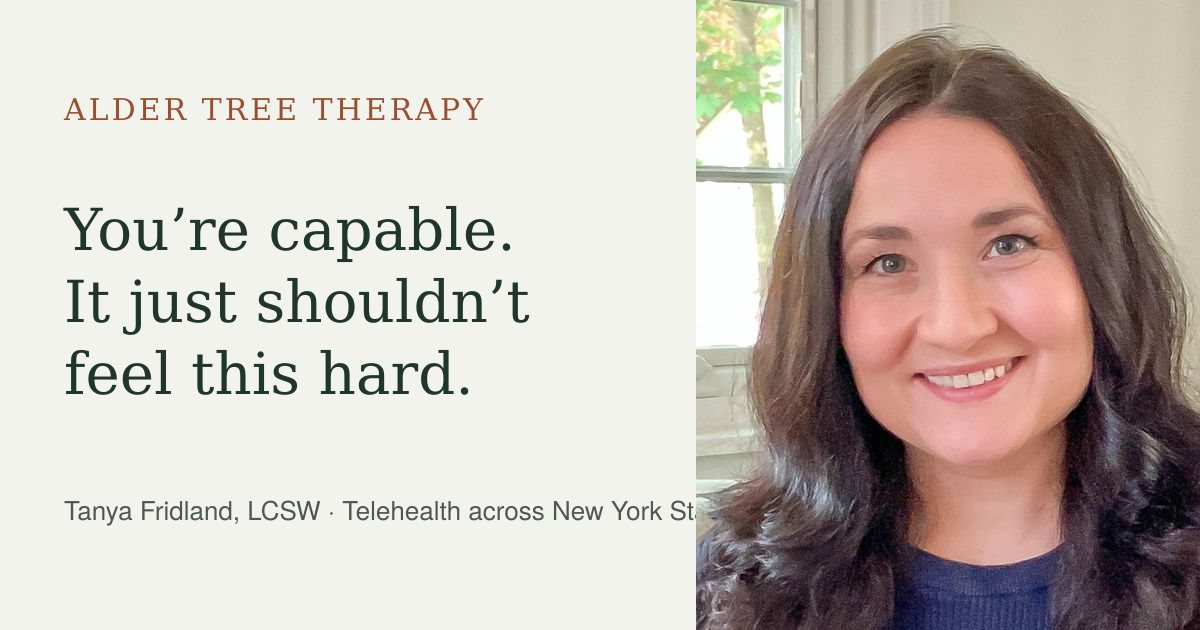
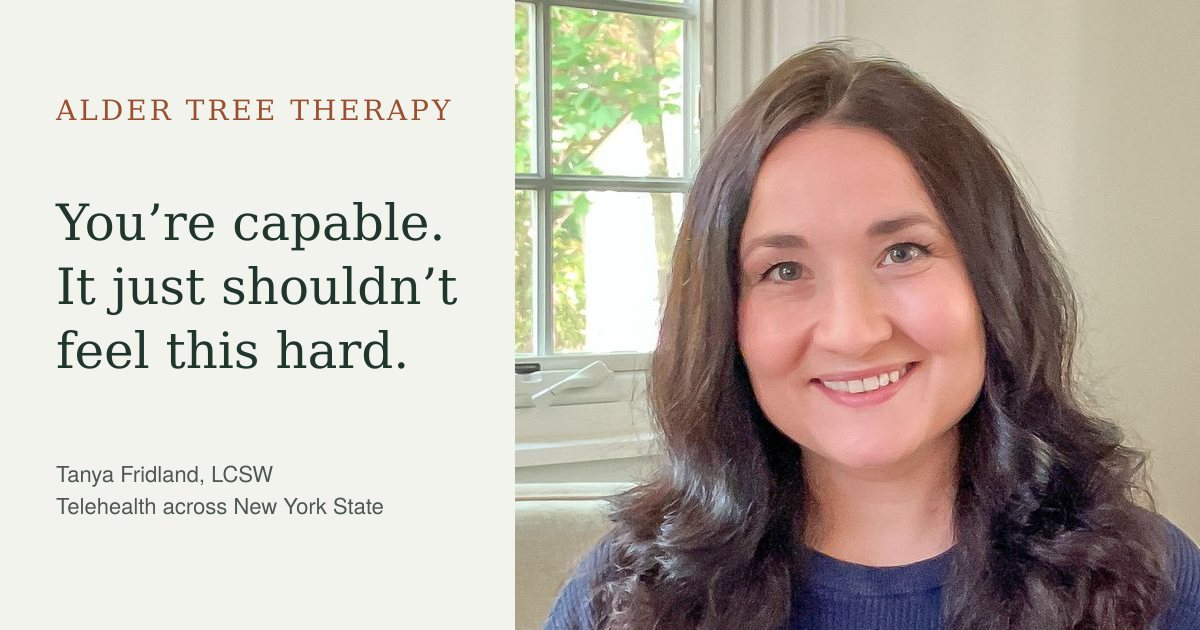
Use the full headshot instead of a close crop
Claude-Session: https://claude.ai/code/session_01XgDKj9P8ozQzdgf6S1g5kj

diff --git a/components/ContentPage.tsx b/components/ContentPage.tsx
@@ -81,7 +81,7 @@ function PageHero({ page }: { page: PageContent }) {
               width={shot.width}
               height={shot.height}
               sizes="(min-width: 1024px) 14rem, 6rem"
-              className="block aspect-[4/5] h-auto w-24 max-w-full object-cover lg:w-56"
+              className="block h-auto w-28 max-w-full lg:w-64"
             />
             <figcaption className="text-[0.9rem] leading-relaxed text-ink-muted">
               <span className="font-semibold text-ink">

diff --git a/components/home/HomeSections.tsx b/components/home/HomeSections.tsx
@@ -40,7 +40,7 @@ export function Hero() {
               height={shot.height}
               priority
               sizes="(min-width: 1024px) 26rem, 22rem"
-              className="relative block aspect-[4/5] h-auto w-full max-w-full object-cover"
+              className="relative block h-auto w-full max-w-full"
             />
           </div>
           <figcaption className="mt-6 text-[0.9rem] leading-relaxed text-ink-muted">

diff --git a/content/site.ts b/content/site.ts
@@ -17,8 +17,8 @@ export const site = {
     headshot: {
       src: "/images/tanya-fridland-lcsw.jpg",
       alt: "Tanya Fridland, LCSW, smiling, in a navy sweater beside a sunlit window",
-      width: 800,
-      height: 1000,
+      width: 1000,
+      height: 920,
     },
     education: [
       {
